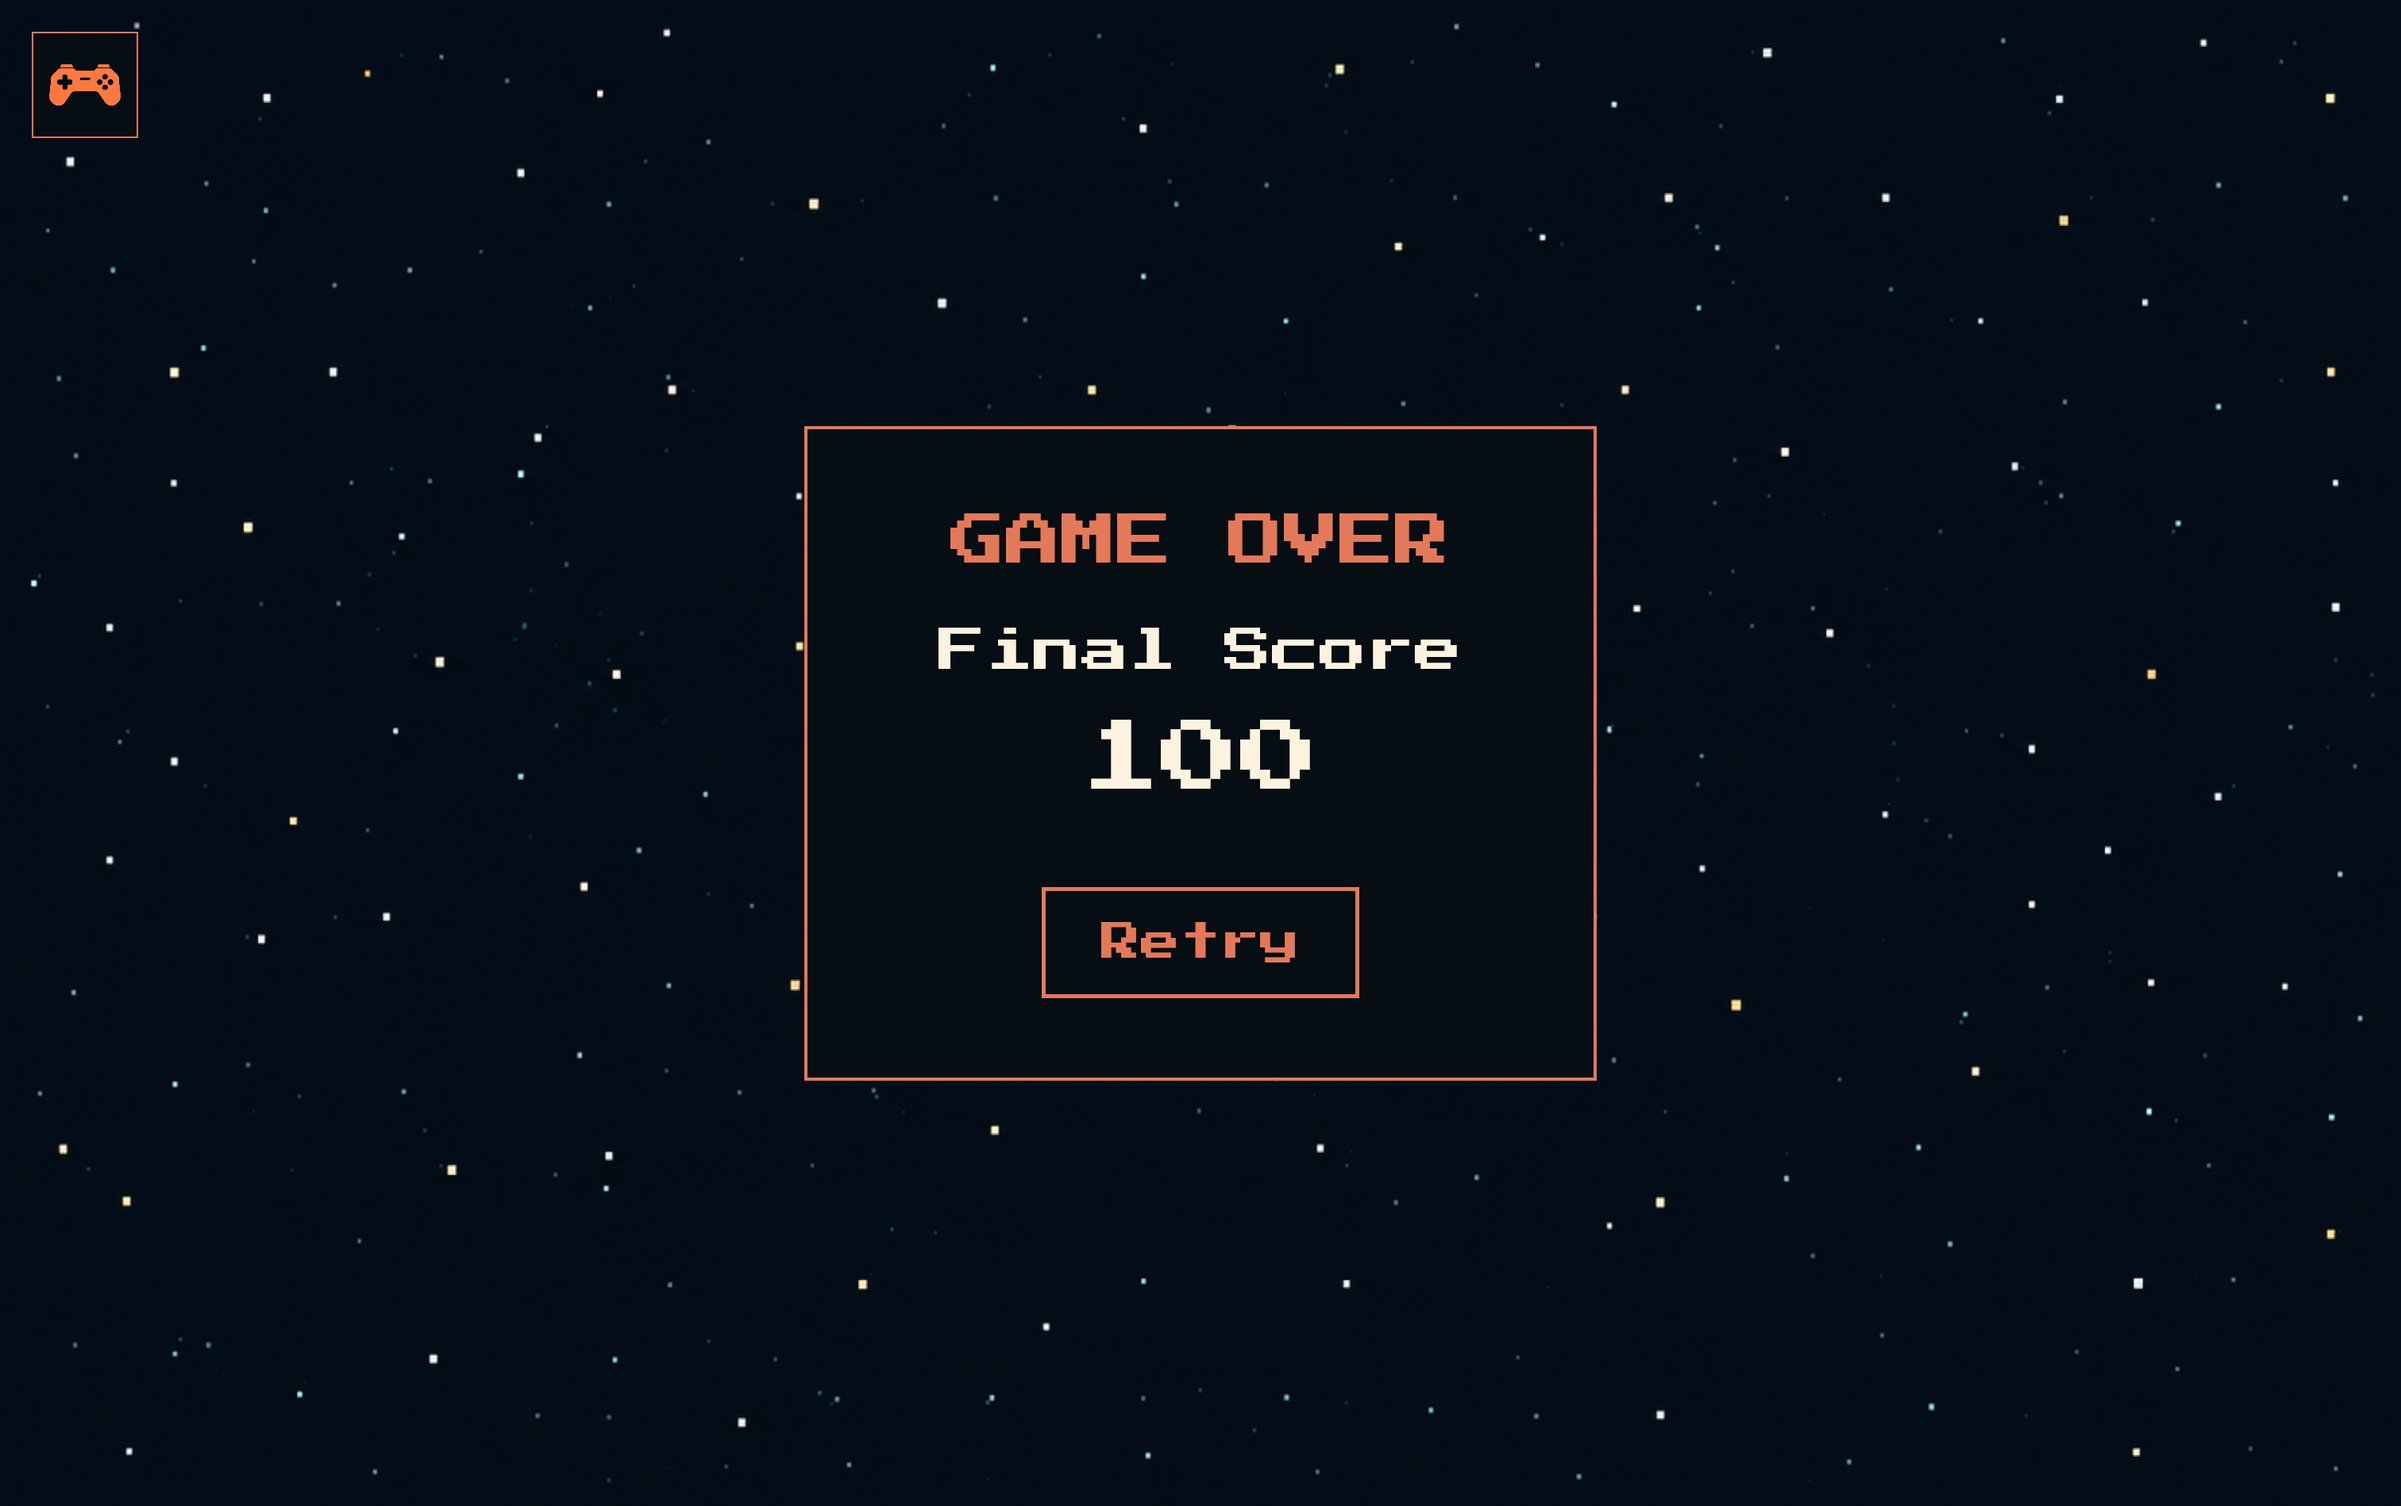
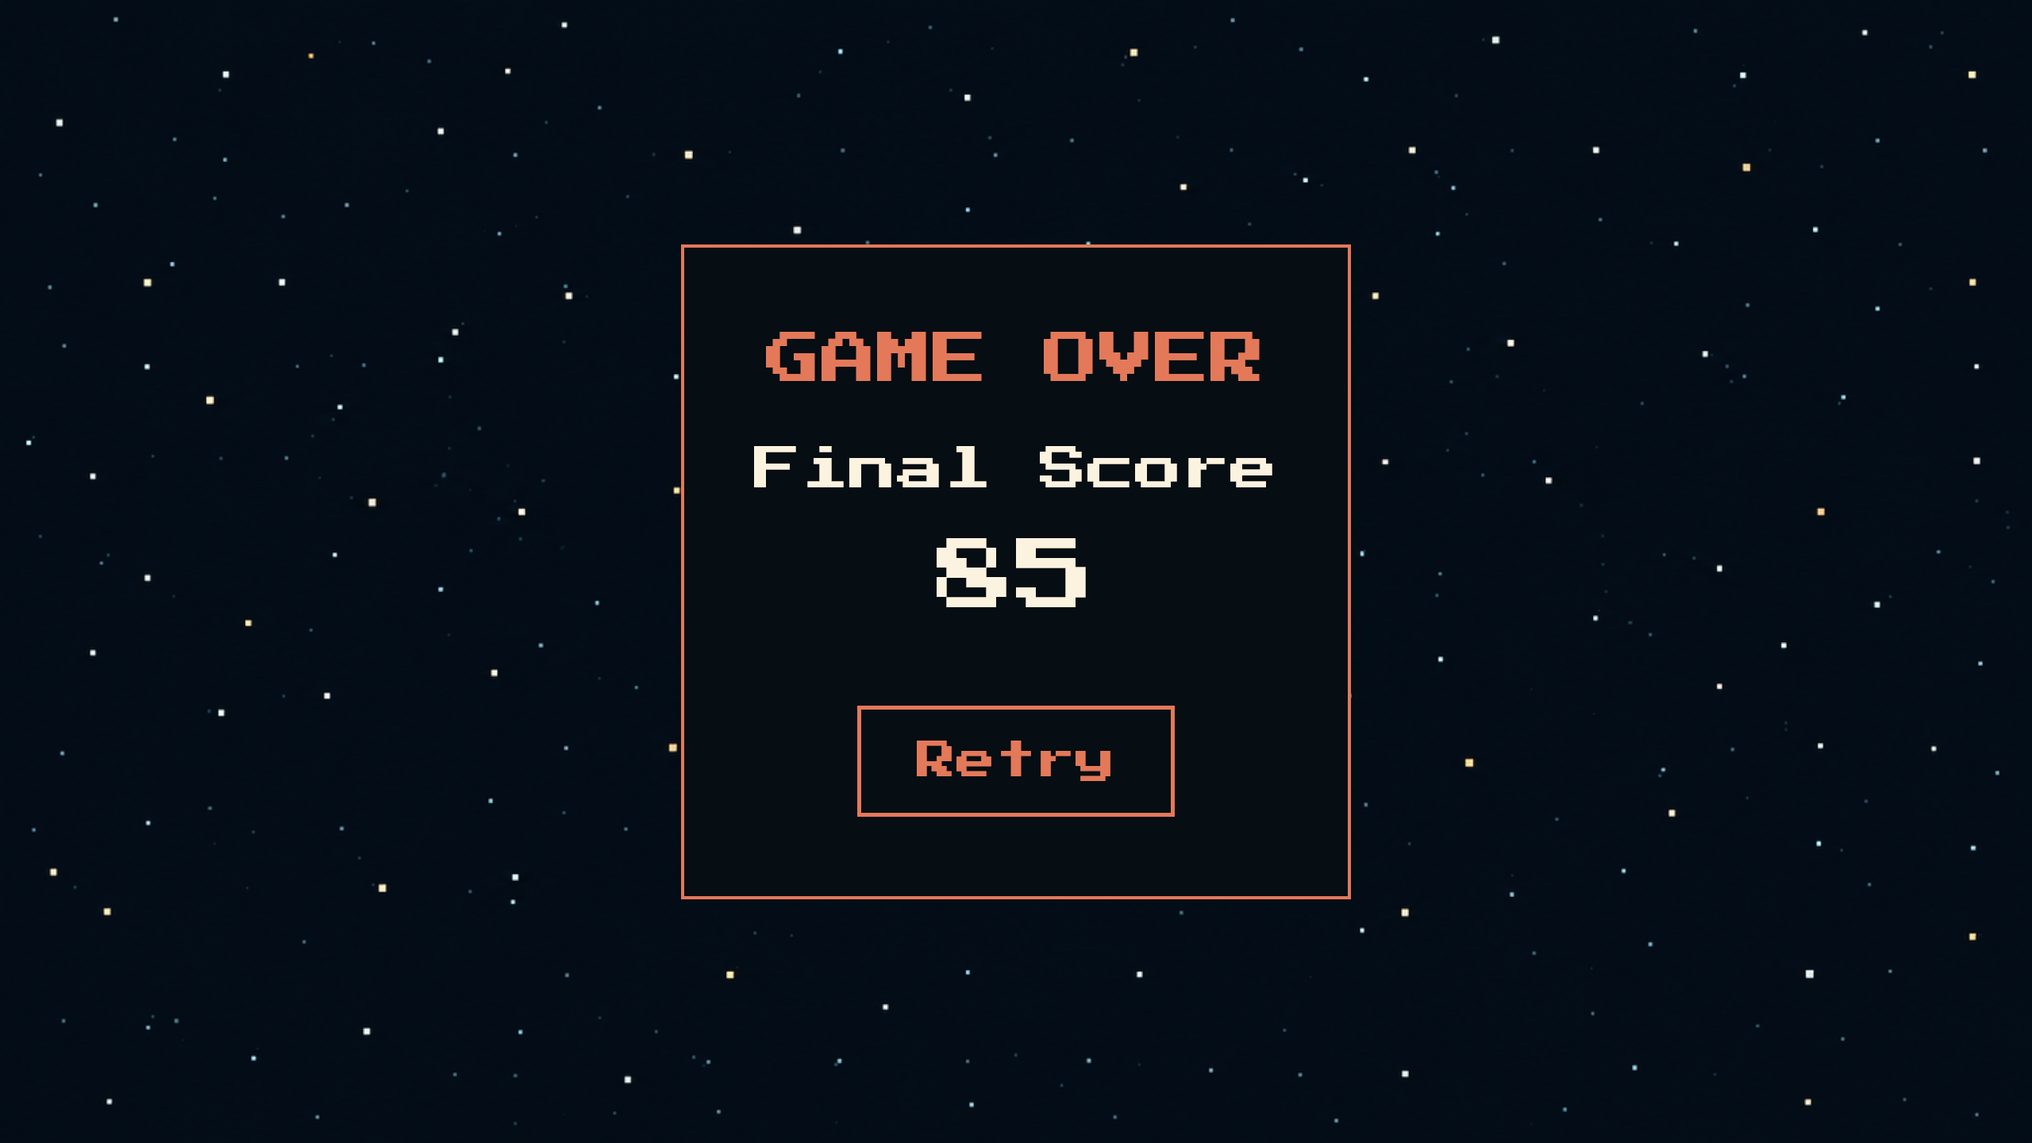
added new game preview images and omited the theme button from all other states except splashscreen

Changed region(s): [[0.375, 0.2812, 0.625, 0.5312], [0.4062, 0.5938, 0.5938, 0.7188], [0.0, 0.0312, 0.0625, 0.0938]]

diff --git a/src/game_theme/game_theme_plugin.rs b/src/game_theme/game_theme_plugin.rs
@@ -1,24 +1,33 @@
 use bevy::prelude::*;
 
-use crate::game_theme::{
-    game_theme::GameTheme,
-    theme_button::{set_theme_icon, spawn_theme_button, theme_button_interactions},
-    theme_colors::{ThemeColors, apply_theme_to_new_ui, set_changed_theme},
+use crate::{
+    GameState,
+    game_theme::{
+        game_theme::GameTheme,
+        theme_button::{
+            cleanup_theme_button, set_theme_icon, spawn_theme_button, theme_button_interactions,
+        },
+        theme_colors::{ThemeColors, apply_theme_to_new_ui, set_changed_theme},
+    },
 };
 
 pub struct GameThemePlugin;
 
+#[derive(SystemSet, Clone, Debug, PartialEq, Eq, Hash)]
+struct GameThemeSet;
+
 impl Plugin for GameThemePlugin {
     fn build(&self, app: &mut App) {
-        app.add_systems(Startup, spawn_theme_button)
+        app.configure_sets(
+            Update,
+            GameThemeSet.run_if(in_state(GameState::SplashScreen)),
+        );
+        app.add_systems(OnEnter(GameState::SplashScreen), spawn_theme_button)
+            .add_systems(OnExit(GameState::SplashScreen), cleanup_theme_button)
+            .add_systems(Update, theme_button_interactions.in_set(GameThemeSet))
             .add_systems(
                 Update,
-                (
-                    theme_button_interactions,
-                    set_changed_theme,
-                    apply_theme_to_new_ui,
-                    set_theme_icon,
-                ),
+                (set_changed_theme, apply_theme_to_new_ui, set_theme_icon),
             )
             .insert_resource(ThemeColors::theme_colors(&GameTheme::default()))
             .init_resource::<GameTheme>();

diff --git a/src/main.rs b/src/main.rs
@@ -32,7 +32,6 @@ pub enum GameState {
 
 fn main() {
     App::new()
-        .add_systems(Update, screenshot_on_spacebar)
         .add_plugins((
             DefaultPlugins
                 .set(WindowPlugin {
@@ -55,18 +54,4 @@ fn main() {
         ))
         .init_state::<GameState>()
         .run();
-}
-
-fn screenshot_on_spacebar(
-    mut commands: Commands,
-    input: Res<ButtonInput<KeyCode>>,
-    mut counter: Local<u32>,
-) {
-    if input.just_pressed(KeyCode::KeyW) {
-        let path = format!("./screenshot-{}.png", *counter);
-        *counter += 1;
-        commands
-            .spawn(Screenshot::primary_window())
-            .observe(save_to_disk(path));
-    }
 }

diff --git a/src/game_theme/theme_button.rs b/src/game_theme/theme_button.rs
@@ -76,3 +76,10 @@ pub fn set_theme_icon(
 ) {
     button_theme_icon.image = game_assets.get_theme_icon(&game_theme);
 }
+
+pub fn cleanup_theme_button(
+    mut commands: Commands,
+    theme_button: Single<Entity, With<ThemeButton>>,
+) {
+    commands.entity(*theme_button).despawn();
+}

diff --git a/src/game_theme/game_theme.rs b/src/game_theme/game_theme.rs
@@ -2,8 +2,8 @@ use bevy::prelude::*;
 
 #[derive(Resource, Default, Debug)]
 pub enum GameTheme {
-    #[default]
     Retro,
+    #[default]
     Cosmic,
 }
 
